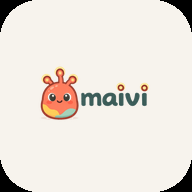
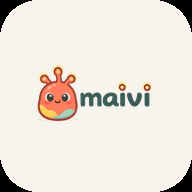
Add files via upload

Changed region(s): [[0.1875, 0.3125, 0.8125, 0.6562]]

diff --git a/index.html b/index.html
@@ -73,7 +73,7 @@ body{
 #tab-bar{position:fixed;left:12px;right:12px;bottom:12px;height:76px;background:rgba(255,255,255,.72);border:1px solid rgba(255,255,255,.6);display:flex;justify-content:space-around;align-items:center;padding:10px 10px 12px;z-index:200;backdrop-filter:blur(22px);border-radius:30px;box-shadow:0 18px 38px rgba(89,80,74,.12)}
 .tab{display:flex;flex-direction:column;align-items:center;justify-content:center;gap:3px;cursor:pointer;padding:6px 8px;min-width:46px;border-radius:16px;transition:.18s ease}
 .tab.on{background:transparent}
-.tab-icon{width:38px;height:38px;border-radius:12px;display:flex;align-items:center;justify-content:center;transition:.18s ease;box-shadow:0 3px 8px rgba(0,0,0,.10);opacity:.55}
+.tab-icon{width:38px;height:38px;border-radius:12px;display:flex;flex-direction:column;align-items:center;justify-content:center;transition:.18s ease;box-shadow:0 3px 8px rgba(0,0,0,.10);opacity:.55}
 .tab.on .tab-icon{opacity:1;box-shadow:0 5px 14px rgba(0,0,0,.18);transform:scale(1.08)}
 .tlab{font-size:9px;font-weight:800;color:var(--soft);letter-spacing:.45px}
 .tab.on .tlab{color:var(--teal)}
@@ -265,7 +265,7 @@ body{
     <div style="padding:18px 20px 8px;display:flex;align-items:center;justify-content:space-between;position:relative;z-index:1">
       <div style="display:flex;align-items:center;gap:10px">
         <div style="width:42px;height:42px;border-radius:14px;background:linear-gradient(135deg,#EAB796,#D4845A);display:flex;align-items:center;justify-content:center;box-shadow:0 4px 12px rgba(212,132,90,.3)">
-          <img src="mascotte.png" style="width:32px;height:32px;object-fit:contain;mix-blend-mode:multiply">
+          <img src="mascotte.png" style="width:32px;height:32px;object-fit:contain">
         </div>
         <div style="font-family:'Baloo 2',cursive;font-size:22px;font-weight:800;color:var(--dk);letter-spacing:.2px">maivi</div>
       </div>
@@ -606,10 +606,11 @@ body{
     <div class="tlab">COURSES</div>
   </div>
 
-  <!-- Accueil — mascotte transparente sur fond corail -->
+  <!-- Accueil — mascotte transparente sur fond corail + maivi -->
   <div class="tab on" id="tab-home" onclick="go('home')">
-    <div class="tab-icon" style="background:linear-gradient(135deg,#EAB796,#D4845A);width:42px;height:42px;border-radius:14px;box-shadow:0 6px 16px rgba(212,132,90,.35);overflow:hidden">
-      <img src="mascotte.png" style="width:36px;height:36px;object-fit:contain;mix-blend-mode:multiply">
+    <div class="tab-icon" style="background:linear-gradient(135deg,#EAB796,#D4845A);width:44px;height:44px;border-radius:14px;box-shadow:0 6px 16px rgba(212,132,90,.35);overflow:hidden;flex-direction:column;gap:0;padding:4px">
+      <img src="mascotte.png" style="width:26px;height:26px;object-fit:contain">
+      <div style="font-family:'Baloo 2',cursive;font-size:7px;font-weight:800;color:white;letter-spacing:.3px;line-height:1;margin-top:1px">maivi</div>
     </div>
     <div class="tlab" style="color:#D4845A">ACCUEIL</div>
   </div>
